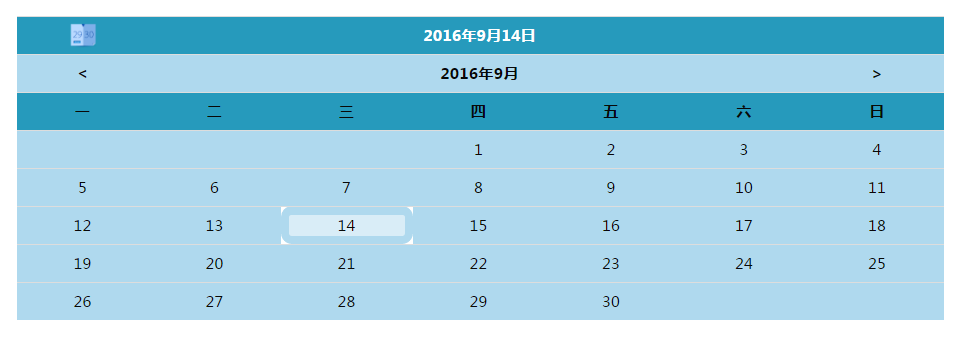
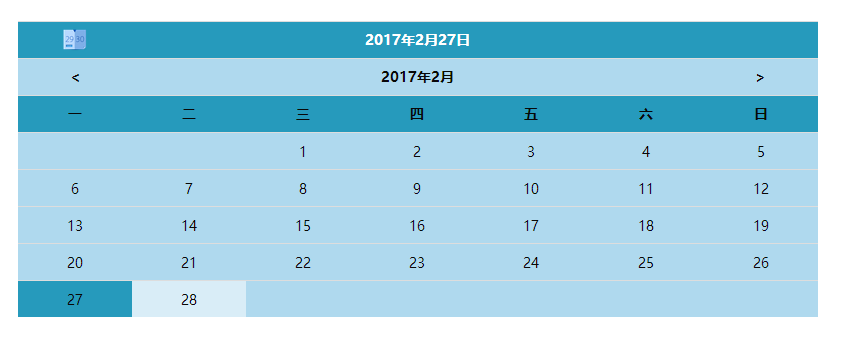
add pic

diff --git a/jquery-calendar/scripts/calendar.js b/jquery-calendar/scripts/calendar.js
@@ -127,6 +127,18 @@ $.fn.calendar = function(options){
                 dayNum++;
                 if(dayNum >= firstDay && days<daysOfMonth){
                     days++;
+                    //双击事件绑定
+                    dowTd.on('dblclick',function(num){
+                        return function(){
+                            $('.mark_choose').removeClass('mark_choose');
+                            if(confirm("确定选择日期："+nowObj.year+"年"+nowObj.month+"月"+num+"日？")){
+                                $('.mark_confirm').removeClass('mark_confirm');
+                                $(this).addClass('mark_confirm');
+                            }
+                            //在此读出选择日期
+
+                        }
+                    }(days))
                     //判断日期,标注今天
                     if(opts.today && nowObj.year == opts.year && nowObj.month == opts.month && days == opts.date){
                         dowTd.addClass('mark_today');

diff --git a/jquery-calendar/style/index.css b/jquery-calendar/style/index.css
@@ -31,17 +31,16 @@ th,td{
 
 /************标注**************/
 .mark_today{
-    background-color: #d9edf7;
-    background-clip:content-box;
-    border-radius: 10px;
+    background-color: #269abc;
 }
 
 .mark_choose{
-    background-color: #d0e9c6;
-    background-clip:content-box;
-    border-radius: 10px;
+    background-color: #d9edf7;
 }
 
+.mark_confirm{
+    background-color: green;
+}
 /**********定制自定义皮肤**********/
 
 .zidingyi_today {
